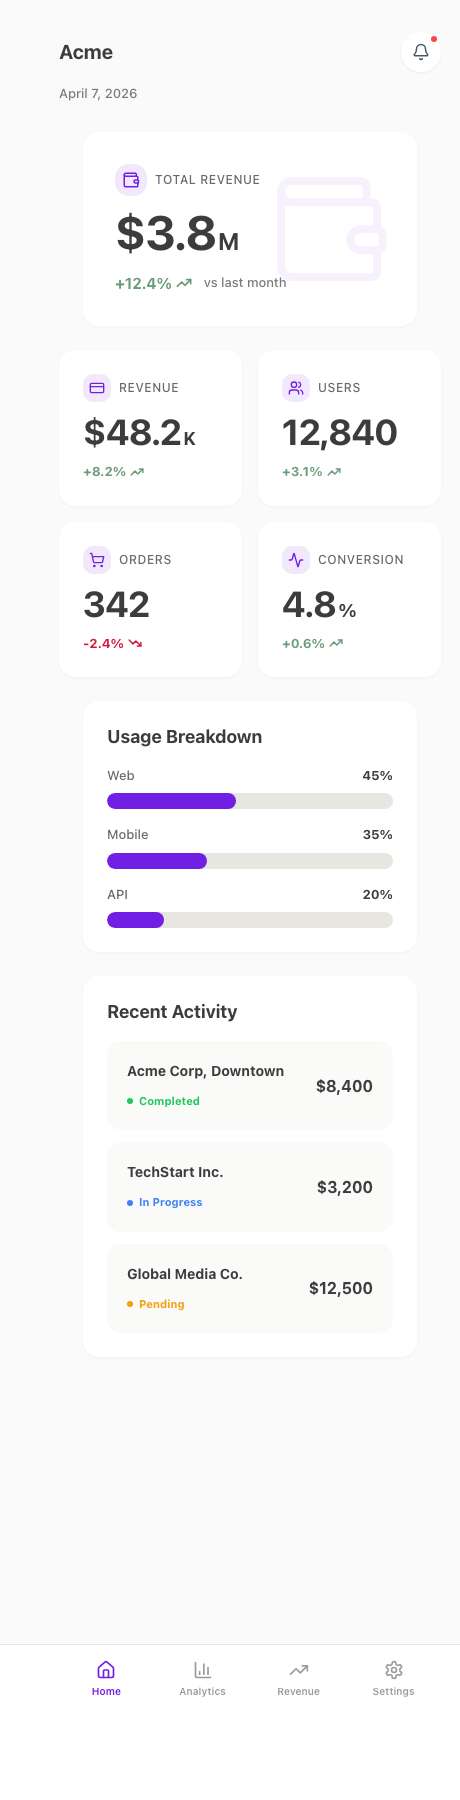
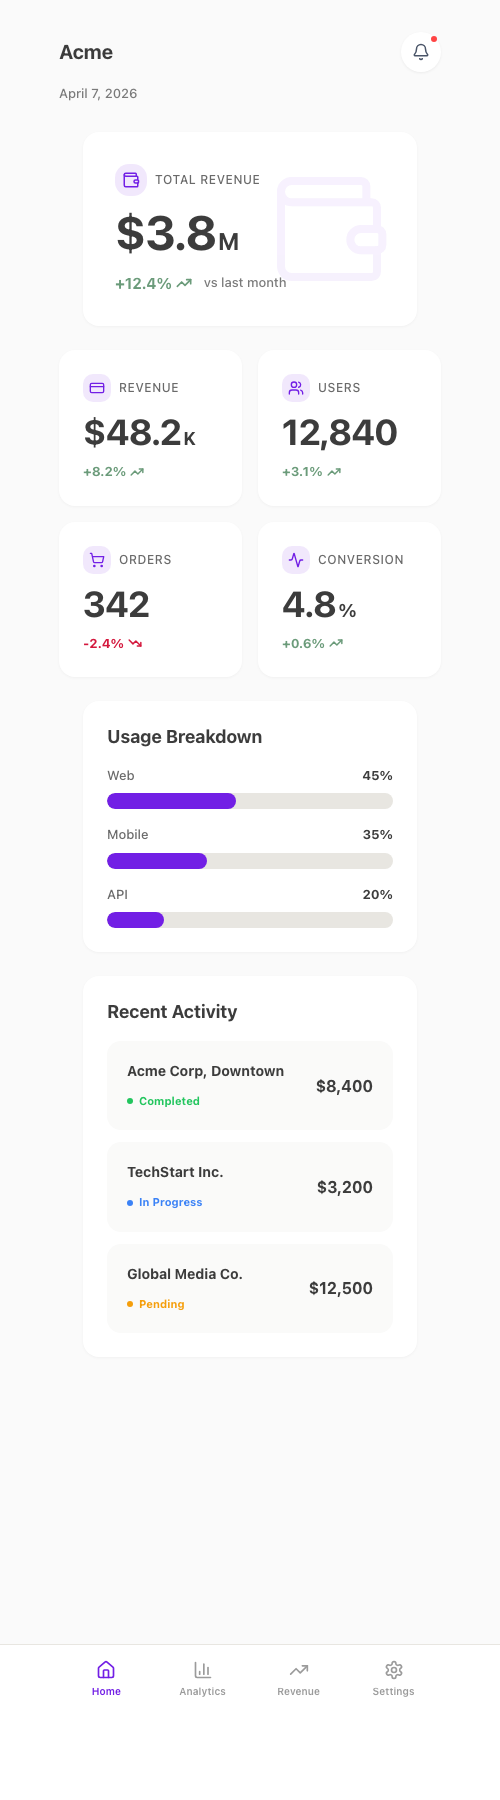
Fix screenshot padding and add beginner-friendly promo copy
- Wider capture (500px) for proper left/right margins
- Add non-developer friendly Korean promo templates
- Step-by-step usage instructions for vibe coders

diff --git a/showcase/PROMO-KR.md b/showcase/PROMO-KR.md
@@ -2,96 +2,88 @@
 
 ---
 
-## 스레드/인스타 (3줄 버전)
+## 스레드/인스타 (3줄 — 비개발자용)
 
-AI로 코딩하면 UI가 구린 이유? 디자인 "규칙"이 없어서.
-2,200줄의 디자인 룰을 AI에 심으면 토스급 UI가 나옴.
-오픈소스로 풀었음 → github.com/bitjaru/styleseed
+바이브코딩으로 앱 만들면 UI가 구림. 다들 겪는 문제.
+이 파일 하나 복사하면 AI가 토스급 디자인으로 만들어줌.
+무료 오픈소스 → github.com/bitjaru/styleseed
 
 ---
 
-## 스레드/인스타 (한 줄 훅 + 3줄)
+## 스레드/인스타 (사용법 포함)
 
-디자이너 없이 토스급 UI 뽑는 법 찾음.
+바이브코딩으로 앱 만들 때 "기능은 되는데 디자인이 구린" 거 겪어봄?
 
-AI에 컬러·타이포·레이아웃 규칙 2,200줄 먹이면 됨.
-47개 컴포넌트 + 10개 AI 스킬 포함. MIT 오픈소스.
+해결법 찾음. 파일 하나 복사하면 됨.
+
+사용법:
+1. github.com/bitjaru/styleseed 에서 seeds/toss 폴더 다운
+2. 내 프로젝트에 복사
+3. 끝. Claude Code가 알아서 읽고 토스급 디자인으로 만들어줌.
+
+디자이너 없이도 색감, 간격, 글자 크기, 카드 구조를
+프로 디자이너가 잡은 것처럼 AI가 맞춰줌.
+
+무료 오픈소스.
+
+---
+
+## 스레드/인스타 (문제→해결 스토리)
+
+바이브코딩 최대 고민:
+"AI가 만든 앱, 기능은 되는데 디자인이 촌스러움"
+
+디자이너 쓰면? 비쌈.
+직접 고치면? 끝이 없음.
+
+그래서 AI한테 디자인 감각을 심어주는 파일을 만들었음.
+
+"카드 그림자는 겨우 보일 정도로만"
+"색은 보라 하나만. 나머지는 회색"
+"숫자는 크게, 단위는 작게"
+
+이런 규칙 60개.
+AI가 읽으면 토스 앱 수준의 UI를 뽑아냄.
+
+파일 복사 한 번이면 끝. 무료 오픈소스.
 github.com/bitjaru/styleseed
 
 ---
 
-## 스레드/인스타 (스토리텔링 버전)
-
-바이브코딩으로 앱 만들 때 가장 답답한 거?
-UI가 "돌아는 가는데 촌스러운" 거.
-
-디자이너 고용? 비쌈.
-직접 수정? 끝이 없음.
-
-그래서 만들었음.
-AI한테 "디자인 감각"을 심어주는 오픈소스.
-
-2,200줄의 디자인 규칙:
-→ "숫자는 크게, 단위는 작게, 항상 2:1"
-→ "순수 검정 절대 금지. 가장 어두운 색은 #2A2A2A"
-→ "카드 그림자는 4-8%. 눈에 보이면 너무 강한 거"
-→ "드롭다운 금지. 2-4개면 토글, 5개 이상이면 별도 페이지"
-
-이런 규칙 60개가 들어있음.
-Claude Code가 읽으면 토스급 UI를 뽑아냄.
-
-컴포넌트 47개, AI 스킬 10개 포함.
-복사 한 번이면 끝.
-
-github.com/bitjaru/styleseed
-
----
-
-## 트위터/X (한글)
+## 트위터/X (비개발자 친화)
 
 **트윗 1:**
-디자이너 없이 토스급 UI 만드는 오픈소스 냄.
+바이브코딩으로 앱 만들면 디자인이 구린 거 나만 그런 거 아니었음.
 
-AI한테 디자인 룰 2,200줄 먹이면
-바이브코딩으로도 프로 수준 UI가 나옴.
-
-47개 컴포넌트 + 10개 Claude Code 스킬.
-복사 한 번이면 끝.
+AI한테 "디자인 감각" 심어주는 파일 만들어서 오픈소스로 풀었음.
+파일 복사 한 번이면 토스급 UI가 나옴.
 
 github.com/bitjaru/styleseed
 
 **트윗 2:**
-왜 필요하냐면
+사용법이 진짜 쉬움
 
-Claude Code한테 "대시보드 만들어" 하면
-간격 제각각, 폰트 뒤죽박죽, 색 남발하는 결과물이 나옴.
+1. 저 링크에서 seeds/toss 폴더 다운
+2. 내 프로젝트에 복사
+3. Claude Code한테 "대시보드 만들어줘" 하면 끝
 
-근데 "숫자는 48px, 단위는 24px, 항상 2:1"
-"카드 안에만 콘텐츠 배치" "검정 금지"
-이런 규칙을 줬더니?
+AI가 색감, 간격, 글자 크기, 카드 구조를
+디자이너처럼 알아서 맞춰줌.
 
-토스 앱처럼 나옴.
+디자이너 비용 0원.
 
 **트윗 3:**
-UX 스킬도 있음
+원리가 뭐냐면
 
-/ux-audit → 닐슨 10대 원칙으로 UX 감사
-/ux-copy → 버튼 라벨, 에러 메시지 자동 생성
-/ux-feedback → 로딩/에러/빈 상태 자동 추가
-/ux-flow → 유저 플로우 설계
+AI한테 이런 규칙을 줌:
+"카드 그림자는 겨우 보일 정도" 
+"색은 보라색 하나만, 나머지 전부 회색"
+"숫자는 크게 단위는 작게"
 
-디자이너+UX 리서처 역할을 AI가 대신.
+이런 게 60개, 총 2,200줄.
+프로 디자이너의 판단 기준을 글로 정리한 거.
 
-**트윗 4:**
-awesome-design-md (23K 스타)랑 같이 쓰면 시너지.
-
-DESIGN.md = 브랜드 컬러/폰트 (피부)
-StyleSeed = 레이아웃/UX/컴포넌트 (뼈대+근육)
-
-둘 다 복사하면 AI가 브랜드 아이덴티티 + 디자인 감각 둘 다 이해함.
-
-MIT 오픈소스. 새 디자인 스타일 PR 환영.
-github.com/bitjaru/styleseed
+AI가 읽으면 그 기준대로 UI를 만듦.
 
 ---
 
